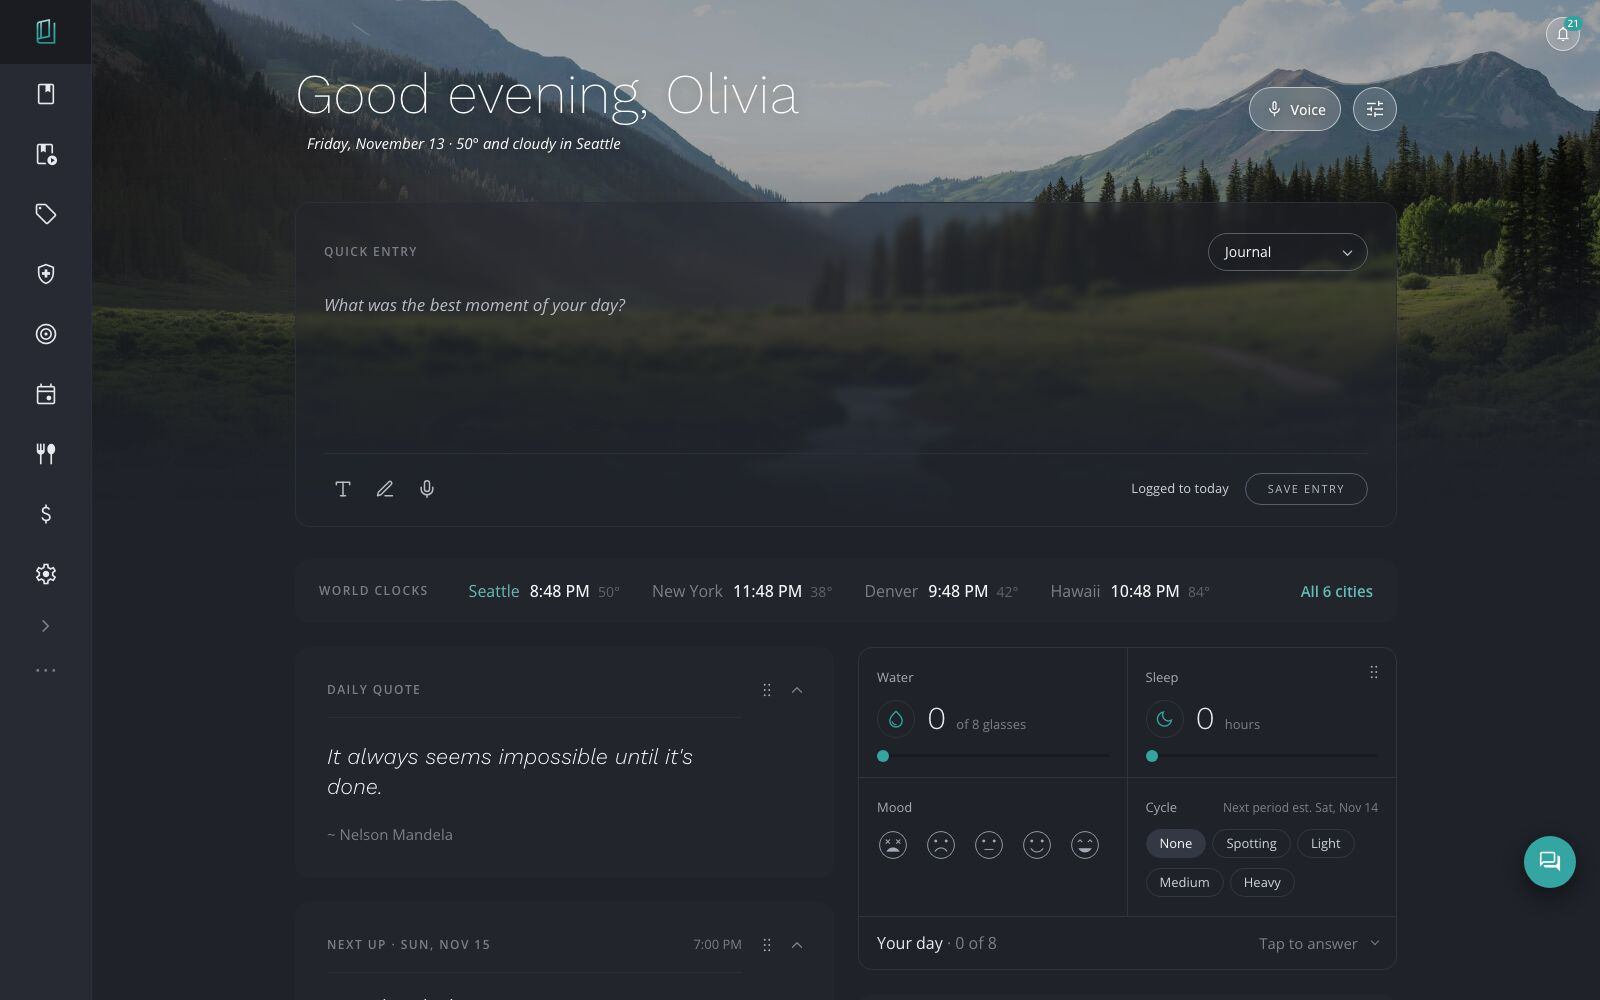
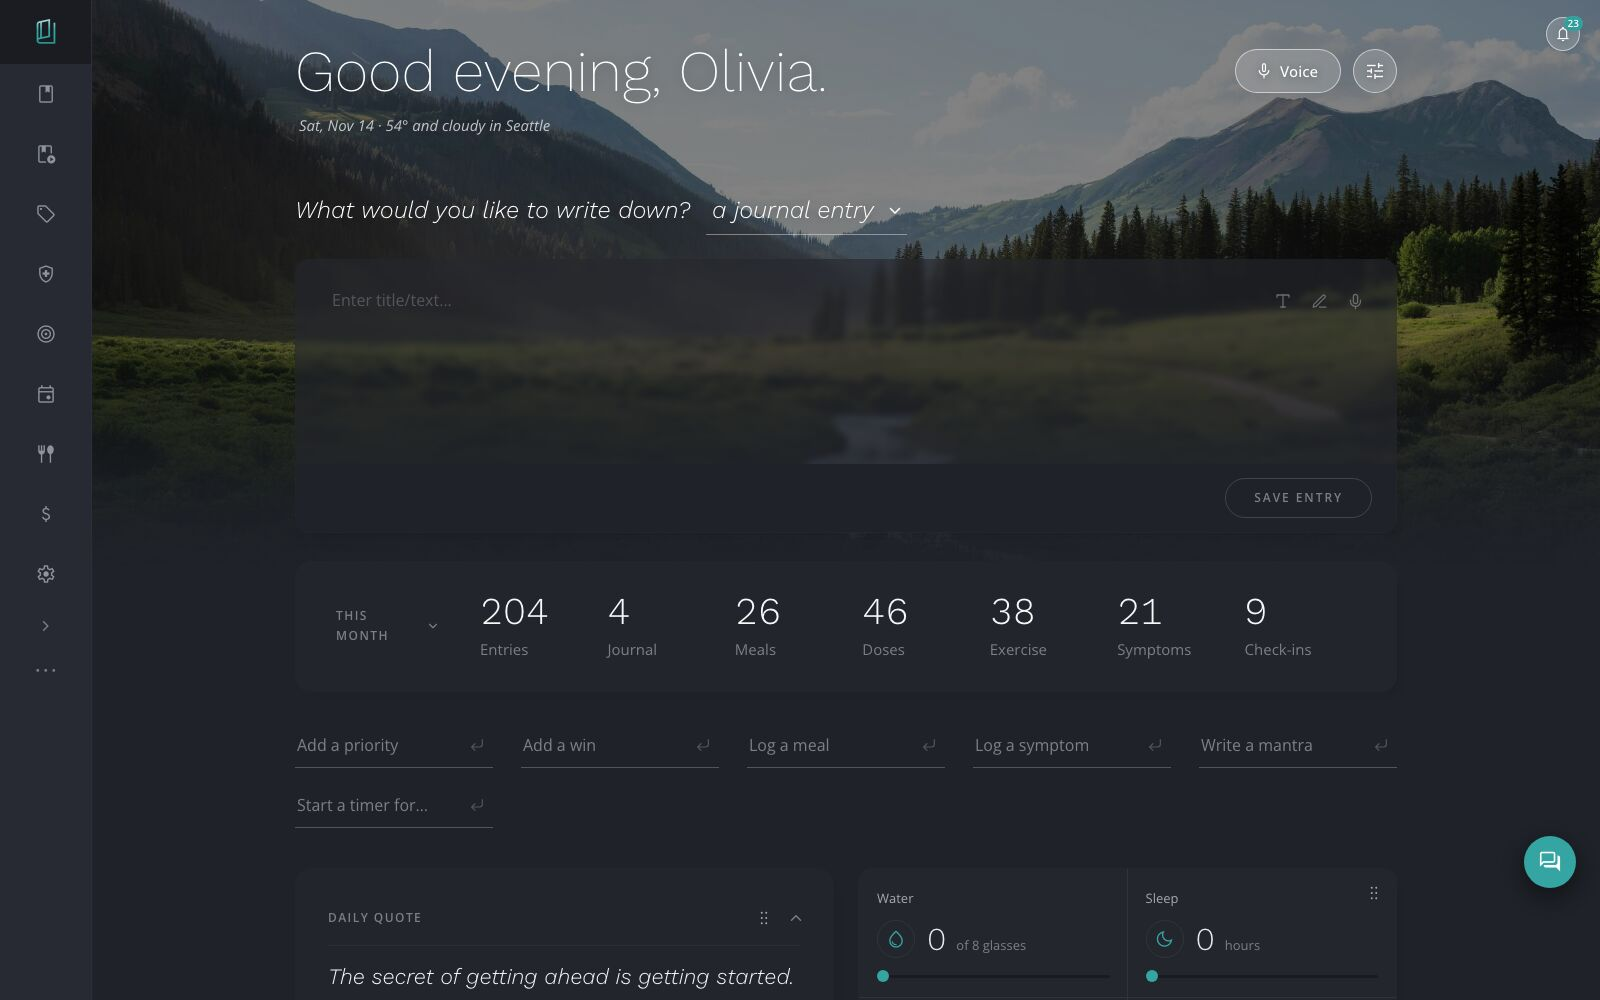
Landing: new dashboard and journal shots, mountains behind the privacy band
Retakes the dashboard and journal screenshots (the hero slides and the
feature shots) on the test account in dark, with the new dashboard,
journal and quick entry styles. The privacy band now shows the darkened
mountain photo, the hero's, instead of the stars.

diff --git a/client/src/views/LandingView.tsx b/client/src/views/LandingView.tsx
@@ -2,7 +2,7 @@ import { useEffect, useRef, useState, type CSSProperties } from 'react';
 import { Navigate } from 'react-router-dom';
 import styled from 'styled-components';
 import { useAuth } from '../contexts/AuthContext.js';
-import { LandingTemplate, Container, DarkBand, HERO_PHOTO_STARS, PAGE_INK } from '../components/templates/LandingTemplate.js';
+import { LandingTemplate, Container, DarkBand, HERO_PHOTO, PAGE_INK } from '../components/templates/LandingTemplate.js';
 import { MaterialIcon } from '../components/atoms/MaterialIcon.js';
 import { ShotSlides, type Slide } from '../components/organisms/landing/ShotSlides.js';
 import { ScreenSlideshow } from '../components/organisms/landing/ScreenSlideshow.js';
@@ -401,12 +401,12 @@ const Extras = styled.ul`
 
 /* ——— Privacy (the dark band over the night sky) ——— */
 
-/* The app's dark page colour over the star photo, faint: the Milky Way and the
-   mountains just show through. (`BAND_GRADIENT`, the teal band, is kept for going back.) */
+/* The app's dark page colour over the mountain photo (the river valley, the
+   hero's), faint. (`BAND_GRADIENT`, the teal band, is kept for going back.) */
 const PrivacyBand = styled(DarkBand)`
   background:
     linear-gradient(180deg, rgba(31, 34, 41, 0.9) 0%, rgba(31, 34, 41, 0.84) 45%, rgba(31, 34, 41, 0.92) 100%),
-    #1f2229 url(${HERO_PHOTO_STARS}) center 62% / cover no-repeat;
+    #1f2229 url(${HERO_PHOTO}) center 55% / cover no-repeat;
   --text-secondary: rgba(255, 255, 255, 0.88);
   --text-muted: rgba(255, 255, 255, 0.7);
   padding: 128px 0 96px;

diff --git a/CLAUDE.md b/CLAUDE.md
@@ -583,7 +583,7 @@ const posts = await getAllPosts(req.auth.tenantSchemaName);
 - **Export** (Settings → Data → Export Finance Data → one "Export All" ZIP; shown even when Finance is off so data can always be taken out): `collectFinanceData` fetches and decrypts every kind fresh from the server; `financeExportFiles` builds a CSV per section (budget-categories, bills, bill-payments, spending, savings-funds, savings-entries, goals), `transactions.csv` (one signed row per money movement) and `finance.json` (full backup); `financeExportZip` bundles them with the dependency-free store-only writer in `client/src/utils/zip.ts`. Amount columns are written raw (the CSV formula guard would turn "-12.00" into text); free-text cells stay guarded. Settings → Data also has Seed Finance Data (`utils/seedFinanceData.ts`) when Finance is on
 - Calendar: active bills' due dates show on the month grid, mobile list and day panel (`billOccurrences`), linking to `/finance`; paused/cancelled bills don't appear
 
-**Landing page (`/`, `views/LandingView.tsx`)** — public, no sign-in. The app's own style: thin Work Sans headings (200 section titles, 300 card titles), Open Sans text, teal tracked-caps eyebrows over sentence-case headings, `ActionPill` (the app's `PillButton` — `$primary` = the filled `--color-accent-line` pill like Save entry, else the neutral outlined pill; always sentence case), the formKit `Chip` (as a `span`) for sample chips, teal `check` ticks (`TickList`, `PAGE_INK` — the app's deep teal #23706e, also the How it works rings, the slide dots and arrows and the form button; the night-sky set that went with the star photo is kept beside it as `SKY_INK` / `SKY_GRADIENT`, and the night-sky icons in `src/assets/landing-stars/icons/`, so the page can go back). Always the app's light theme whatever theme the visitor last used: `LandingTemplate` pins the light DS tokens (default Teal accent) on its root; `DarkBand` re-pins dark text tones. **Header + hero** (`HeroBand`, the template's `hero` slot) sit on Madison Kuhn's river valley (`HERO_PHOTO`, the app's default wallpaper) under a 65% dark shade, fading into the page colour from 78% down (`heroMountains`; `HERO_BACKGROUND` in `LandingTemplate` picks `'mountains'`, `'stars'` — exactly the privacy band's background (`heroStars`: the app's dark page colour #1f2229 at 84–92% over the Milky Way photo, `HERO_PHOTO_STARS` — keep it in step with `PrivacyBand`; `HERO_BACKGROUND` in `LandingTemplate` switches to `'gradient'`, the band matched to the user's mockup, `heroGradient`: the right half deep indigo #2c2c47 → #191b2e, the left half deep teal #234045 → #161d2d in a `::before` masked to fade across the middle (40% → 72%), and an `::after` with a soft teal-grey light at the top centre and the middle a shade deeper) that stops partway down the screenshot (`--hero-light`, 270px of light page under it, 110px on phones); the header row lines up with the screenshot frame (1048px), so the frame's lower part sits on the light page; the photo constants (`HERO_PHOTO`, Madison Kuhn's river, and `HERO_PHOTO_STARS`, Benjamin Voros's Milky Way, with a backup of the star screenshots in `src/assets/landing-stars/`) are kept for going back to a photo hero; pills read `--pill-*` vars (primary white with deep teal text, neutral a white glass outline). Header: the logo — the bare book mark in the dusk colours (`DuskMark`, lavender → teal, no tile) + "Chronicles" in thin (300) Work Sans, How it works / Features / Privacy / FAQ anchors (hidden ≤1000px), **Sign in** (or **Open Chronicles**; ≤480px it moves into the menu), then a white **Join the beta** pill (→ `#beta`, signed out only), and ≤1000px a round glass **menu button** (three lines drawn in CSS, a × while open — the icon font has no menu glyph) that opens a dark glass panel under the header with How it works, Features, Privacy, FAQ and Sign in (a link, a click outside or Escape closes it). Sections, in order: **hero** — "LIFE DASHBOARD · JOURNAL · DAY PLANNER" eyebrow, the thin headline (78px, two lines on wide screens — "A life dashboard for / people too busy to plan.", a `<br>` hidden ≤768px — the second half in pale teal #b6dbd9), the intro (up to 960px, so on desktop its first line ends at "moments, and"; 48px above it, nothing under it — no buttons in the hero, and no seat line: the page shows no numbers or counts), then the app slideshow (`ScreenSlideshow`, `organisms/landing/ScreenSlideshow.tsx`, `src/assets/landing/<key>.jpg`): every view in dark (no light shots) in a dark device frame (an 8px #2b2e36 bezel, 16px corners, a faint white edge and a deep shadow; the showcase 1048px wide; the first slide is the star-background dashboard); ‹ › arrows on its edges, grey dots under it (the current one `PAGE_INK`, as are the arrows' chevrons), swipe and arrow keys; it advances every 6s, pausing while pointed at or focused, and not at all for reduced motion; **How it works** (`#how`, `--bg-app`, the original timeline: a 60px title-case "How It Works" (`HowTitle`), the intro, then three steps — a teal ring with a centre dot (`Marker`), hairlines joining the rings, the title and text centred under each; stacked ≤900px); **features** (`#features`, white, no heading of its own): **feature rows** (four — Journal, Goals and planning, Health and wellness, Budget and finance — alternating sides: "LIFE DASHBOARD" grey tracked caps (no numbering), a 50px thin title, text, ticks, an optional italic note, beside a dark screenshot in a light device bezel (`ShotSlides`, `organisms/landing/ShotSlides.tsx`) — `src/assets/landing/features/<key>-dark.jpg` (`slidesFor`: one shot of each screen, in dark, the light file only where there's no dark one): the Goals and planning row (planning-tasks, planning-roadmap, planning-planner), the Health and wellness row (health-dashboard, health-meals, health-exercise-history, health-reports) and the Budget and finance row (finance, finance-bills, finance-savings) are slideshows (‹ › arrows on the bezel, dots, swipe — `useSwipe` — and arrow keys, crossfading, never moving on its own); the Journal row shows one shot. Screenshots are taken on the test account with the river-valley background (`madison-kuhn-aV7_rCZpvGY`, the app default; the Milky Way set is kept in `src/assets/landing-stars/`) at 1600 × 1136 and scaled to 1268 × 900); **Everything else** (`--bg-app`: four image cards — calendar-dark, kitchen-dark, finance-dark, media-dark, cropped top-left at 190px — then four text items under rules); **Only you can read it.** (`#privacy`, the app's dark page colour over the star photo, faint (`HERO_PHOTO_STARS`; `BAND_GRADIENT`, the teal band, kept for going back): a pale teal "PRIVACY" eyebrow over the heading, the intro beside it aligned to its foot, six items as quiet cards — a faint dark fill, a white hairline, 14px corners, a pale teal icon, 22px thin title — then the small print); **Private beta** (`#beta`, `--bg-app`: eyebrow, heading, intro and ticks on the left, `BetaSignup` on the right — a `--bg-panel` card, 16px corners, soft shadow: **Name** and **Email** filled `--bg-sunken` fields, the 18+ and risk `Checkbox`es, a full-width round **Request a beta seat** pill in `PAGE_INK` and "For adults 18 and older. When seats fill, you’ll join the waitlist." — no seat count or progress bar; every applicant sees the same thank-you — "Thank you for signing up to test Chronicles. We can’t wait to hear what you think, and we’ll reach out by email."); **Questions** (`#faq`, `#1f2229` with dark text tones: "Good to know." on the left, the `FaqItem` accordion on the right, the first answer open — a button with `aria-expanded` and a `role="region"` answer that slides open and shut (grid rows 0fr → 1fr, chevron turning; instant for reduced motion)); **footer** (`#1a1c21`: brand + a line, Product / Trust / Help link columns — Privacy policy → `/health-privacy`, Terms, License → the repo's LICENSE, Report a bug → `/report-a-bug` — then "© year holder" and "No analytics. No tracking. No ads." under a rule). The global flat-input rule is opted out with `data-underline`. The pricing answer (`priceTerms`), the seat count (30), copyright holder and GitHub URL are `BETA_DETAILS` in `shared/src/legal/index.ts` — fill before launch
+**Landing page (`/`, `views/LandingView.tsx`)** — public, no sign-in. The app's own style: thin Work Sans headings (200 section titles, 300 card titles), Open Sans text, teal tracked-caps eyebrows over sentence-case headings, `ActionPill` (the app's `PillButton` — `$primary` = the filled `--color-accent-line` pill like Save entry, else the neutral outlined pill; always sentence case), the formKit `Chip` (as a `span`) for sample chips, teal `check` ticks (`TickList`, `PAGE_INK` — the app's deep teal #23706e, also the How it works rings, the slide dots and arrows and the form button; the night-sky set that went with the star photo is kept beside it as `SKY_INK` / `SKY_GRADIENT`, and the night-sky icons in `src/assets/landing-stars/icons/`, so the page can go back). Always the app's light theme whatever theme the visitor last used: `LandingTemplate` pins the light DS tokens (default Teal accent) on its root; `DarkBand` re-pins dark text tones. **Header + hero** (`HeroBand`, the template's `hero` slot) sit on Madison Kuhn's river valley (`HERO_PHOTO`, the app's default wallpaper) under a 65% dark shade, fading into the page colour from 78% down (`heroMountains`; `HERO_BACKGROUND` in `LandingTemplate` picks `'mountains'`, `'stars'` — exactly the privacy band's background (`heroStars`: the app's dark page colour #1f2229 at 84–92% over the Milky Way photo, `HERO_PHOTO_STARS` — keep it in step with `PrivacyBand`; `HERO_BACKGROUND` in `LandingTemplate` switches to `'gradient'`, the band matched to the user's mockup, `heroGradient`: the right half deep indigo #2c2c47 → #191b2e, the left half deep teal #234045 → #161d2d in a `::before` masked to fade across the middle (40% → 72%), and an `::after` with a soft teal-grey light at the top centre and the middle a shade deeper) that stops partway down the screenshot (`--hero-light`, 270px of light page under it, 110px on phones); the header row lines up with the screenshot frame (1048px), so the frame's lower part sits on the light page; the photo constants (`HERO_PHOTO`, Madison Kuhn's river, and `HERO_PHOTO_STARS`, Benjamin Voros's Milky Way, with a backup of the star screenshots in `src/assets/landing-stars/`) are kept for going back to a photo hero; pills read `--pill-*` vars (primary white with deep teal text, neutral a white glass outline). Header: the logo — the bare book mark in the dusk colours (`DuskMark`, lavender → teal, no tile) + "Chronicles" in thin (300) Work Sans, How it works / Features / Privacy / FAQ anchors (hidden ≤1000px), **Sign in** (or **Open Chronicles**; ≤480px it moves into the menu), then a white **Join the beta** pill (→ `#beta`, signed out only), and ≤1000px a round glass **menu button** (three lines drawn in CSS, a × while open — the icon font has no menu glyph) that opens a dark glass panel under the header with How it works, Features, Privacy, FAQ and Sign in (a link, a click outside or Escape closes it). Sections, in order: **hero** — "LIFE DASHBOARD · JOURNAL · DAY PLANNER" eyebrow, the thin headline (78px, two lines on wide screens — "A life dashboard for / people too busy to plan.", a `<br>` hidden ≤768px — the second half in pale teal #b6dbd9), the intro (up to 960px, so on desktop its first line ends at "moments, and"; 48px above it, nothing under it — no buttons in the hero, and no seat line: the page shows no numbers or counts), then the app slideshow (`ScreenSlideshow`, `organisms/landing/ScreenSlideshow.tsx`, `src/assets/landing/<key>.jpg`): every view in dark (no light shots) in a dark device frame (an 8px #2b2e36 bezel, 16px corners, a faint white edge and a deep shadow; the showcase 1048px wide; the first slide is the star-background dashboard); ‹ › arrows on its edges, grey dots under it (the current one `PAGE_INK`, as are the arrows' chevrons), swipe and arrow keys; it advances every 6s, pausing while pointed at or focused, and not at all for reduced motion; **How it works** (`#how`, `--bg-app`, the original timeline: a 60px title-case "How It Works" (`HowTitle`), the intro, then three steps — a teal ring with a centre dot (`Marker`), hairlines joining the rings, the title and text centred under each; stacked ≤900px); **features** (`#features`, white, no heading of its own): **feature rows** (four — Journal, Goals and planning, Health and wellness, Budget and finance — alternating sides: "LIFE DASHBOARD" grey tracked caps (no numbering), a 50px thin title, text, ticks, an optional italic note, beside a dark screenshot in a light device bezel (`ShotSlides`, `organisms/landing/ShotSlides.tsx`) — `src/assets/landing/features/<key>-dark.jpg` (`slidesFor`: one shot of each screen, in dark, the light file only where there's no dark one): the Goals and planning row (planning-tasks, planning-roadmap, planning-planner), the Health and wellness row (health-dashboard, health-meals, health-exercise-history, health-reports) and the Budget and finance row (finance, finance-bills, finance-savings) are slideshows (‹ › arrows on the bezel, dots, swipe — `useSwipe` — and arrow keys, crossfading, never moving on its own); the Journal row shows one shot. Screenshots are taken on the test account with the river-valley background (`madison-kuhn-aV7_rCZpvGY`, the app default; the Milky Way set is kept in `src/assets/landing-stars/`) at 1600 × 1136 and scaled to 1268 × 900); **Everything else** (`--bg-app`: four image cards — calendar-dark, kitchen-dark, finance-dark, media-dark, cropped top-left at 190px — then four text items under rules); **Only you can read it.** (`#privacy`, the app's dark page colour over the mountain photo, faint (`HERO_PHOTO`, the river valley; `BAND_GRADIENT`, the teal band, kept for going back): a pale teal "PRIVACY" eyebrow over the heading, the intro beside it aligned to its foot, six items as quiet cards — a faint dark fill, a white hairline, 14px corners, a pale teal icon, 22px thin title — then the small print); **Private beta** (`#beta`, `--bg-app`: eyebrow, heading, intro and ticks on the left, `BetaSignup` on the right — a `--bg-panel` card, 16px corners, soft shadow: **Name** and **Email** filled `--bg-sunken` fields, the 18+ and risk `Checkbox`es, a full-width round **Request a beta seat** pill in `PAGE_INK` and "For adults 18 and older. When seats fill, you’ll join the waitlist." — no seat count or progress bar; every applicant sees the same thank-you — "Thank you for signing up to test Chronicles. We can’t wait to hear what you think, and we’ll reach out by email."); **Questions** (`#faq`, `#1f2229` with dark text tones: "Good to know." on the left, the `FaqItem` accordion on the right, the first answer open — a button with `aria-expanded` and a `role="region"` answer that slides open and shut (grid rows 0fr → 1fr, chevron turning; instant for reduced motion)); **footer** (`#1a1c21`: brand + a line, Product / Trust / Help link columns — Privacy policy → `/health-privacy`, Terms, License → the repo's LICENSE, Report a bug → `/report-a-bug` — then "© year holder" and "No analytics. No tracking. No ads." under a rule). The global flat-input rule is opted out with `data-underline`. The pricing answer (`priceTerms`), the seat count (30), copyright holder and GitHub URL are `BETA_DETAILS` in `shared/src/legal/index.ts` — fill before launch
 - **Motion**: Lenis smooth scrolling (`lenis` 1.3.26, pinned) on `#root` — the app's scroller — loaded with a dynamic import in `LandingTemplate` only on this page, skipped for reduced motion and where `ResizeObserver` is missing, destroyed on unmount; it also glides the `#how` / `#features` / `#privacy` / `#beta` / `#faq` links (sections keep a 24px `scroll-margin-top`). Scroll reveal: `useScrollReveal` (`hooks/useScrollReveal.ts`, IntersectionObserver rooted on `#root`) sets `data-shown` on each `[data-reveal]` and the template's CSS fades it up; `--reveal-delay` staggers rows (How it works steps, the feature rows' text then screenshot, the module cards, the six privacy items, the form after its heading, the FAQ). Everything shows at once for reduced motion or without IntersectionObserver
 - **Beta + waitlist storage** (`public.beta_signups`, `server/src/db/betaQueries.ts`, routes `server/src/routes/beta.ts`): `POST /api/beta/apply` (name, email, 18+ and risk boxes — `betaApplicationSchema`; `trackFirst` / `device` are optional and no longer asked, so new rows store them as null) is the only sign-up: there is no separate waitlist form — applications after the last seat go on the waitlist automatically. Public, but posts need `X-Requested-With` and pass `betaLimiter` (10/hour per IP); a filled `website` honeypot gets the normal answer and saves nothing. Seats go in arrival order under a Postgres advisory lock; past the last seat an application lands on the waitlist. The page and the API never say how many seats are left (no count, no progress bar). No account link; covered by the privacy policy's "Beta applications and the waitlist" section. `npm run beta` (from the root or `server/`) lists it, `-- --csv` exports, `-- --remove <email>` deletes. A seat doesn't create an account: **approve** them — `npm run beta -- --approve <email>` sets `approved_at` (and adds anyone who never applied as `invited`) and prints a one-time sign-up link (`/sign-up#email=…&invite=…` — after the `#`, so the code never reaches the host's access logs; older `?…` links still work, built on `APP_URL`, else `CLIENT_URL`) for the owner to send; only the code's SHA-256 (`invite_hash`) is kept, so approving again issues a new link. **Sign-up is closed by default**: `/register` accepts only an approved email **with its invite code** (`isApproved(email, inviteCode)`, no restart; the code is spent once the account exists — `RegisterView` reads both from the link) or one listed in the optional `REGISTRATION_WHITELIST` (no code); without the code an approved email is refused exactly like any other, so knowing one isn't enough to claim it; a failed approval check refuses. `/change-email` treats an approved email with no account yet as taken (`hasPendingInvite`). `REGISTRATION_OPEN=true` lets anyone sign up (the server warns in production). `--unapprove <email>` takes it back (an account already made stays); the list shows who's approved / signed up. No emails are sent by the app
 
